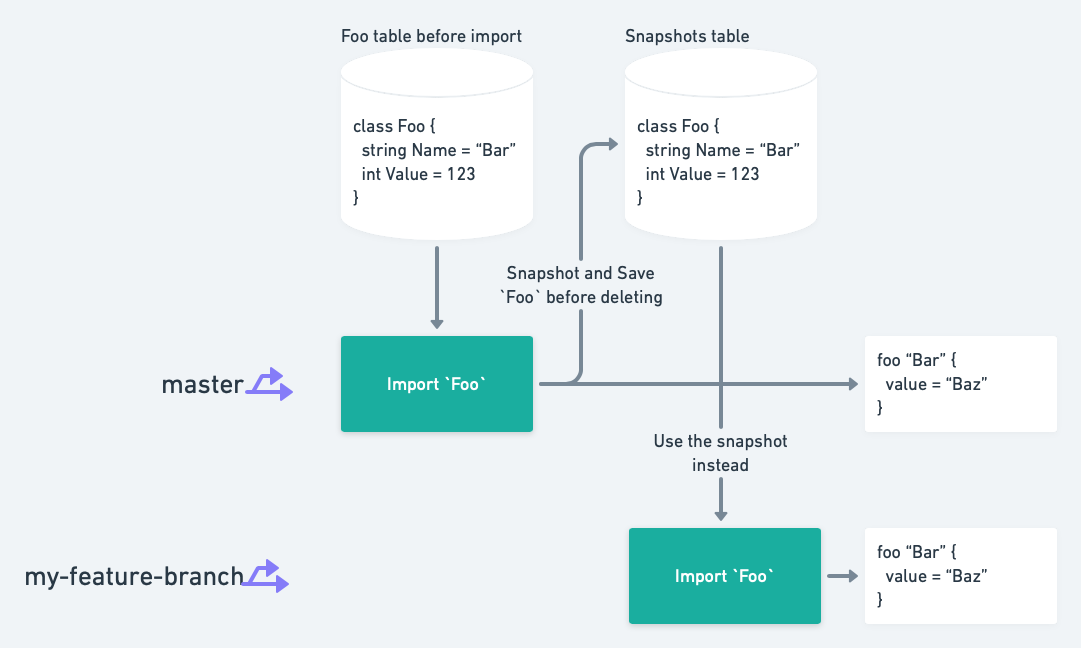
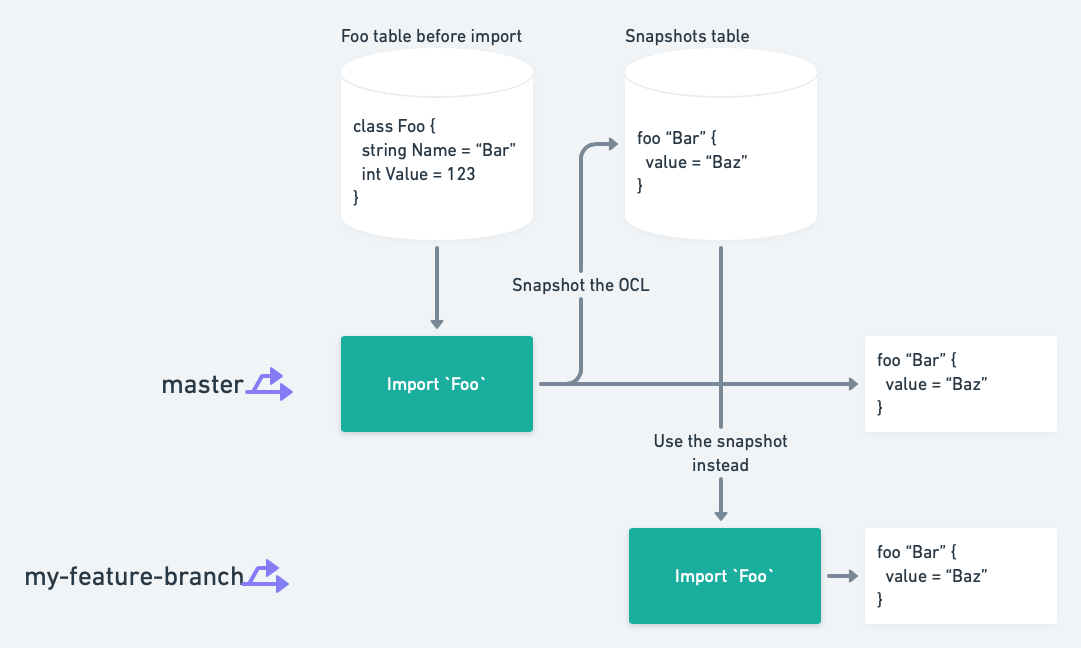
Updated for new stashing methods

Changed region(s): [[0.58, 0.1852, 0.7327, 0.2778], [0.4579, 0.4012, 0.6105, 0.4938]]

diff --git a/OctopusServer/ConfigAsCode/Migrations/Migrations.md b/OctopusServer/ConfigAsCode/Migrations/Migrations.md
@@ -101,7 +101,7 @@ To solve this, we snapshot the document before deleting it, so that any future e
 ![Deleting data when importing: Solution](./Deleting_data_when_importing_solution.png)
 
 
-The Import step compares the `Project Version` and it's own version to determine whether to fetch the document from the documents own table, or from the snapshots table.
+The Import step compares the `Project Version` and it's own version to determine whether to fetch the document from the documents own table, or use a snapshot.
 
 ![Snapshot selection](./Snapshot_selection.png)
 
